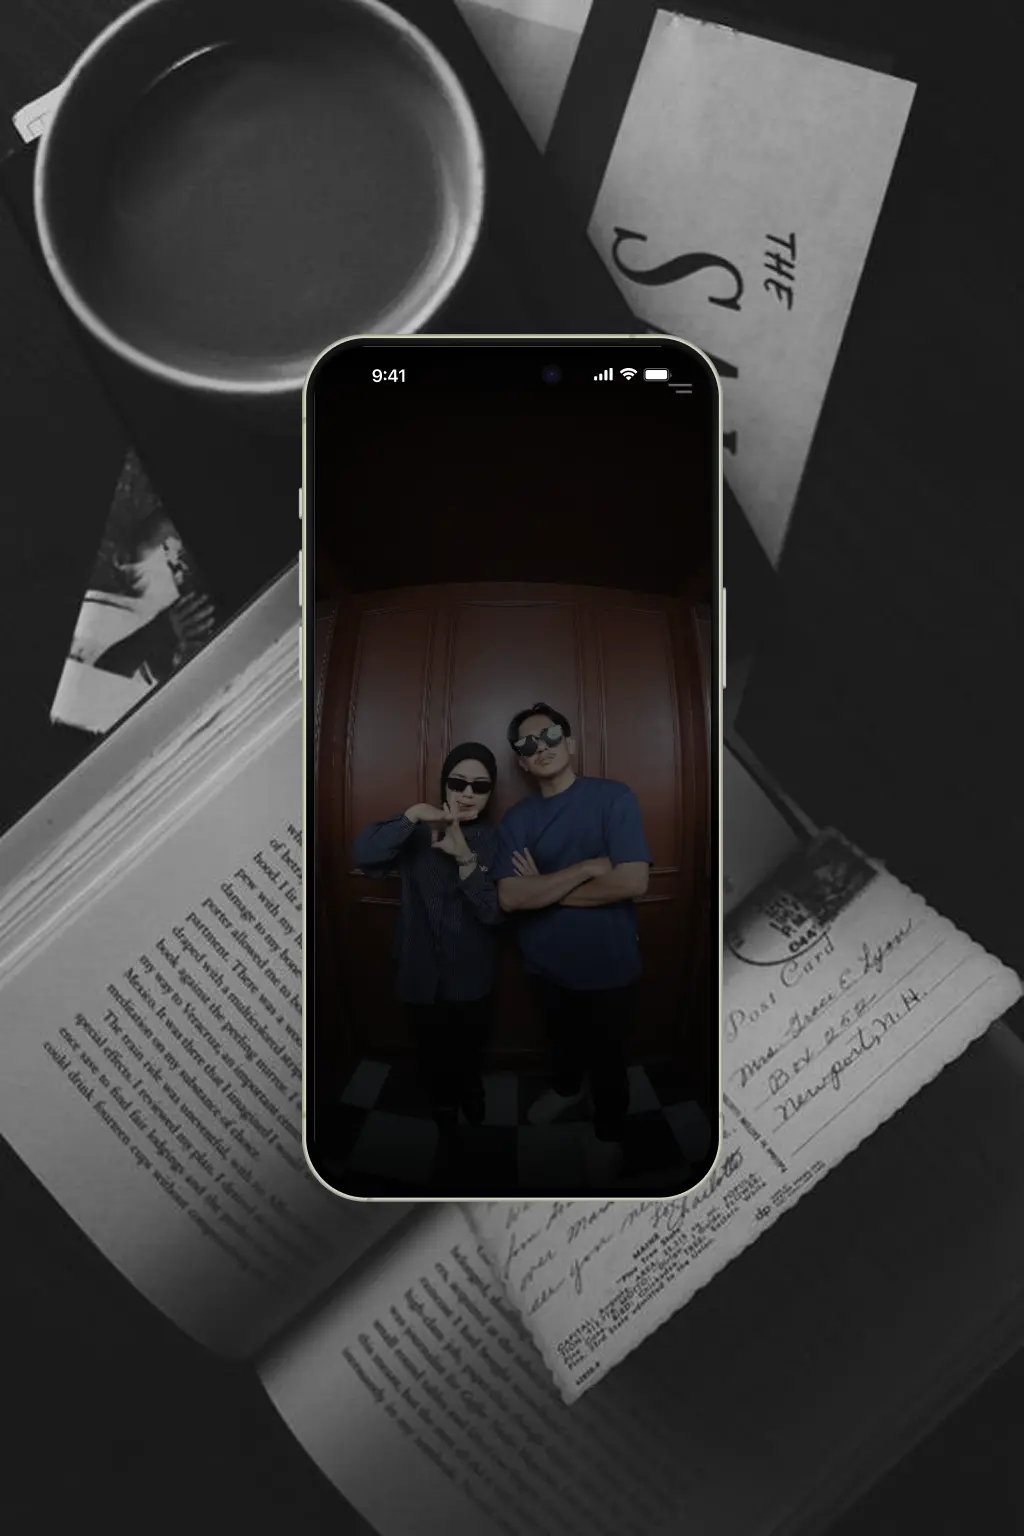
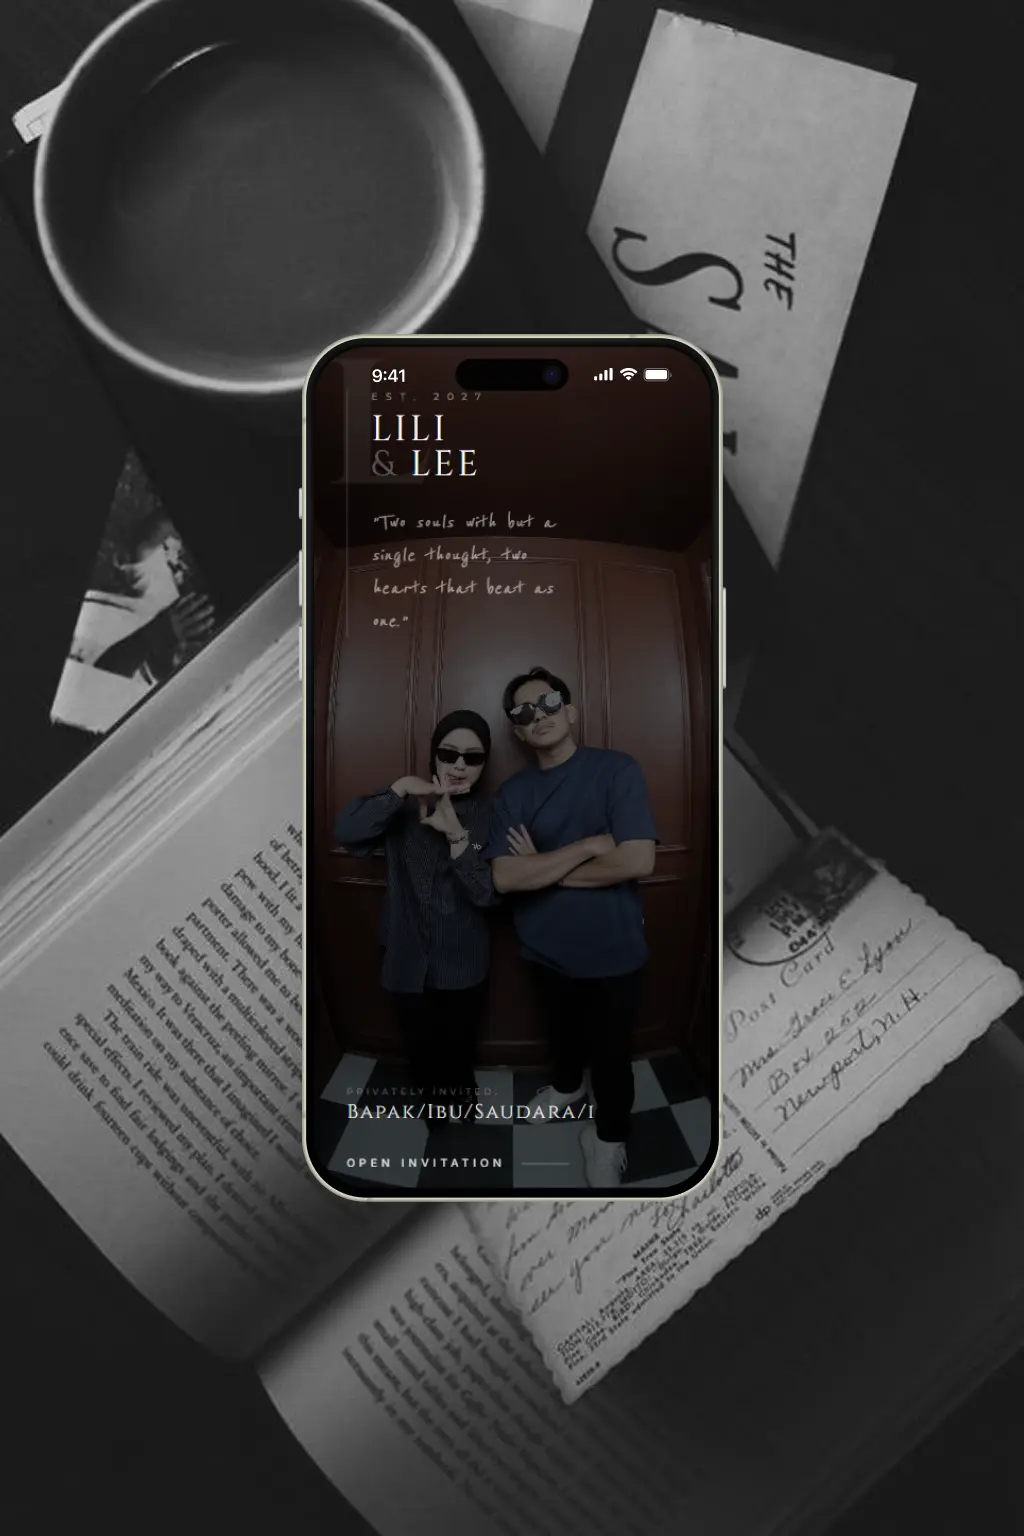
fix

Changed region(s): [[0.3125, 0.2188, 0.6875, 0.5938], [0.3125, 0.6875, 0.7188, 0.7812], [0.6875, 0.4688, 0.7188, 0.5]]

diff --git a/src/invitation/templates/rahma/sections/RSVPWishesSection.tsx b/src/invitation/templates/rahma/sections/RSVPWishesSection.tsx
@@ -1,0 +1,149 @@
+import { motion } from "framer-motion"
+import { useState } from "react"
+import { Send, Quote } from "lucide-react"
+import { type Invitation } from "../../../../types/Invitation"
+
+export default function RSVPAndWishes({ data }: { data: Invitation }) {
+  const [submitted, setSubmitted] = useState(false)
+  const wishes = data.guests || []
+
+  const handleSubmit = (e: React.FormEvent) => {
+    e.preventDefault()
+    setSubmitted(true)
+    // Logika pengiriman data bisa ditambahkan di sini
+  }
+
+  return (
+    <section id="rsvp" className="relative py-32 px-8 overflow-hidden bg-transparent">
+      {/* Background Decorative Text */}
+      <div className="absolute inset-x-0 top-20 pointer-events-none opacity-[0.02] flex justify-center">
+        <h2 className="font-cinzel text-[100px] md:text-[150px] font-bold tracking-tighter text-white select-none uppercase">Archive</h2>
+      </div>
+
+      <div className="relative z-10 max-w-sm mx-auto">
+        {/* --- HEADER SECTION --- */}
+        <motion.div initial={{ opacity: 0, y: 20 }} whileInView={{ opacity: 1, y: 0 }} viewport={{ once: true }} className="text-center space-y-6 mb-16">
+          <div className="flex flex-col items-center gap-3">
+            <span className="font-montserrat text-[8px] uppercase tracking-[0.6em] text-white/40 block">The Confirmation & Wishes</span>
+            <div className="h-[1px] w-12 bg-white/20" />
+          </div>
+
+          <h2 className="font-cinzel text-4xl text-white tracking-widest uppercase leading-tight">
+            Will You <br />
+            <span className="italic opacity-80 text-3xl">Attend?</span>
+          </h2>
+        </motion.div>
+
+        {/* --- FORM SECTION --- */}
+        <div className="mb-24">
+          {!submitted ? (
+            <motion.form onSubmit={handleSubmit} initial={{ opacity: 0 }} whileInView={{ opacity: 1 }} className="text-left space-y-8 bg-white/[0.02] border border-white/[0.05] p-8 backdrop-blur-md rounded-sm shadow-2xl">
+              <div className="group space-y-1">
+                <label className="font-montserrat text-[8px] uppercase tracking-[0.3em] text-white/20 ml-1 group-focus-within:text-white/60 transition-colors">Full Name</label>
+                <input
+                  type="text"
+                  required
+                  className="w-full bg-transparent border-b border-white/10 px-1 py-3 text-white font-montserrat text-xs focus:outline-none focus:border-white transition-all placeholder:text-white/5"
+                  placeholder="Enter your name"
+                />
+              </div>
+
+              <div className="group space-y-1">
+                <label className="font-montserrat text-[8px] uppercase tracking-[0.3em] text-white/20 ml-1 group-focus-within:text-white/60 transition-colors">Attendance Status</label>
+                <div className="relative">
+                  <select required className="w-full bg-transparent border-b border-white/10 px-1 py-3 text-white font-montserrat text-xs focus:outline-none focus:border-white transition-all appearance-none cursor-pointer">
+                    <option value="" className="bg-[#0A0A0A]">
+                      Select Status
+                    </option>
+                    <option value="present" className="bg-[#0A0A0A]">
+                      I will be there
+                    </option>
+                    <option value="absent" className="bg-[#0A0A0A]">
+                      Regretfully decline
+                    </option>
+                  </select>
+                  <div className="absolute right-2 top-1/2 -translate-y-1/2 pointer-events-none opacity-20 text-[8px]">▼</div>
+                </div>
+              </div>
+
+              <div className="group space-y-2">
+                <label className="font-montserrat text-[8px] uppercase tracking-[0.3em] text-white/20 ml-1 group-focus-within:text-white/60 transition-colors">Message</label>
+                <textarea
+                  rows={3}
+                  placeholder="Send your prayers..."
+                  className="w-full bg-transparent border-b border-white/10 px-1 py-3 text-white font-montserrat text-xs focus:outline-none focus:border-white transition-all resize-none placeholder:text-white/5"
+                />
+              </div>
+
+              <motion.button
+                whileTap={{ scale: 0.98 }}
+                className="w-full mt-6 bg-white text-black font-montserrat text-[9px] font-bold uppercase tracking-[0.4em] py-5 flex items-center justify-center gap-4 group hover:bg-neutral-200 transition-colors"
+              >
+                Send Response <Send size={10} className="group-hover:translate-x-1 group-hover:-translate-y-1 transition-transform" />
+              </motion.button>
+            </motion.form>
+          ) : (
+            <motion.div initial={{ opacity: 0, scale: 0.95 }} animate={{ opacity: 1, scale: 1 }} className="py-16 text-center border border-white/10 bg-white/[0.03] backdrop-blur-lg">
+              <span className="font-reenie-beanie text-4xl text-white/60 block mb-4">Thank You</span>
+              <h3 className="font-cinzel text-white text-lg mb-4 tracking-[0.3em]">RESPONSE RECEIVED</h3>
+              <p className="font-montserrat text-[9px] text-white/30 uppercase tracking-[0.2em] leading-loose">
+                We have saved your confirmation. <br /> See you soon.
+              </p>
+            </motion.div>
+          )}
+        </div>
+
+        {/* --- WISHES LIST SECTION (Love Letters) --- */}
+        <div className="space-y-12">
+          <motion.div initial={{ opacity: 0 }} whileInView={{ opacity: 1 }} className="relative text-left">
+            <Quote size={30} className="text-white/5 absolute -top-4 -left-2" />
+            <h2 className="font-cinzel text-2xl text-white tracking-[0.3em] uppercase">Love Letters</h2>
+            <p className="font-montserrat text-[8px] text-white/30 uppercase tracking-[0.4em] mt-2">Messages from our beloved ones</p>
+          </motion.div>
+
+          <div className="space-y-4 max-h-[600px] overflow-y-auto pr-2 custom-scrollbar">
+            {wishes.map((wish, index) => (
+              <motion.div
+                key={wish.id || index}
+                initial={{ opacity: 0, x: -10 }}
+                whileInView={{ opacity: 1, x: 0 }}
+                transition={{ delay: index * 0.05 }}
+                className="bg-white/[0.03] border border-white/5 p-6 rounded-sm group hover:bg-white/[0.05] transition-all"
+              >
+                <div className="flex flex-col gap-3">
+                  <div className="flex items-center justify-between">
+                    <h4 className="font-cinzel text-[9px] text-white/70 tracking-widest uppercase">{wish.name}</h4>
+                    {wish.isAttending && <span className="text-[7px] font-montserrat text-emerald-500/60 tracking-widest uppercase border border-emerald-500/20 px-2 py-0.5 rounded-full">Attending</span>}
+                  </div>
+                  <p className="font-montserrat text-[11px] text-white/40 leading-relaxed font-light italic">"{wish.message}"</p>
+                </div>
+              </motion.div>
+            ))}
+
+            {wishes.length === 0 && (
+              <div className="py-10 border-t border-white/5">
+                <p className="font-montserrat text-[8px] uppercase tracking-[0.4em] text-white/20 italic">Be the first to leave a message...</p>
+              </div>
+            )}
+          </div>
+        </div>
+      </div>
+
+      <style
+        dangerouslySetInnerHTML={{
+          __html: `
+  .custom-scrollbar::-webkit-scrollbar {
+    width: 2px;
+  }
+  .custom-scrollbar::-webkit-scrollbar-track {
+    background: rgba(255, 255, 255, 0.02);
+  }
+  .custom-scrollbar::-webkit-scrollbar-thumb {
+    background: rgba(255, 255, 255, 0.1);
+  }
+`,
+        }}
+      />
+    </section>
+  )
+}

diff --git a/src/invitation/templates/rahma/RahmaTemplate.tsx b/src/invitation/templates/rahma/RahmaTemplate.tsx
@@ -11,9 +11,8 @@ import CountdownSection from "./sections/EventSection"
 import StorySection from "./sections/LovestorySection"
 import GallerySection from "./sections/GallerySection"
 import GiftSection from "./sections/GiftSection"
-import RSVPSection from "./sections/RSVPSection"
-import WishesSection from "./sections/WishesSection"
 import ClosingSection from "./sections/ClosingSection"
+import RSVPAndWishes from "./sections/RSVPWishesSection"
 
 // List gambar background untuk sisi kanan yang akan berganti
 const backgroundImages = [
@@ -47,7 +46,7 @@ export default function RahmaTemplate() {
 
   const handleOpenInvitation = () => {
     setIsOpened(true)
-    setIsPlaying(true) // Musik otomatis menyala saat undangan dibuka
+    setIsPlaying(true)
   }
 
   useEffect(() => {
@@ -159,8 +158,7 @@ export default function RahmaTemplate() {
                 </div>
 
                 <div id="rsvp">
-                  <RSVPSection />
-                  <WishesSection data={data} />
+                  <RSVPAndWishes data={data} />
                 </div>
                 <ClosingSection data={data} />
               </div>

diff --git a/src/invitation/templates/rahma/sections/ClosingSection.tsx b/src/invitation/templates/rahma/sections/ClosingSection.tsx
@@ -89,7 +89,6 @@ export default function ClosingSection({ data }: { data: Invitation }) {
             <span className="font-montserrat text-[9px] text-white/40 tracking-widest uppercase">STUDIO</span>
           </div>
         </div>
-        <p className="font-montserrat text-[6px] text-white/10 tracking-[0.4em] uppercase">© 2026 CodeWithLee • All Rights Reserved</p>
       </footer>
     </section>
   )
